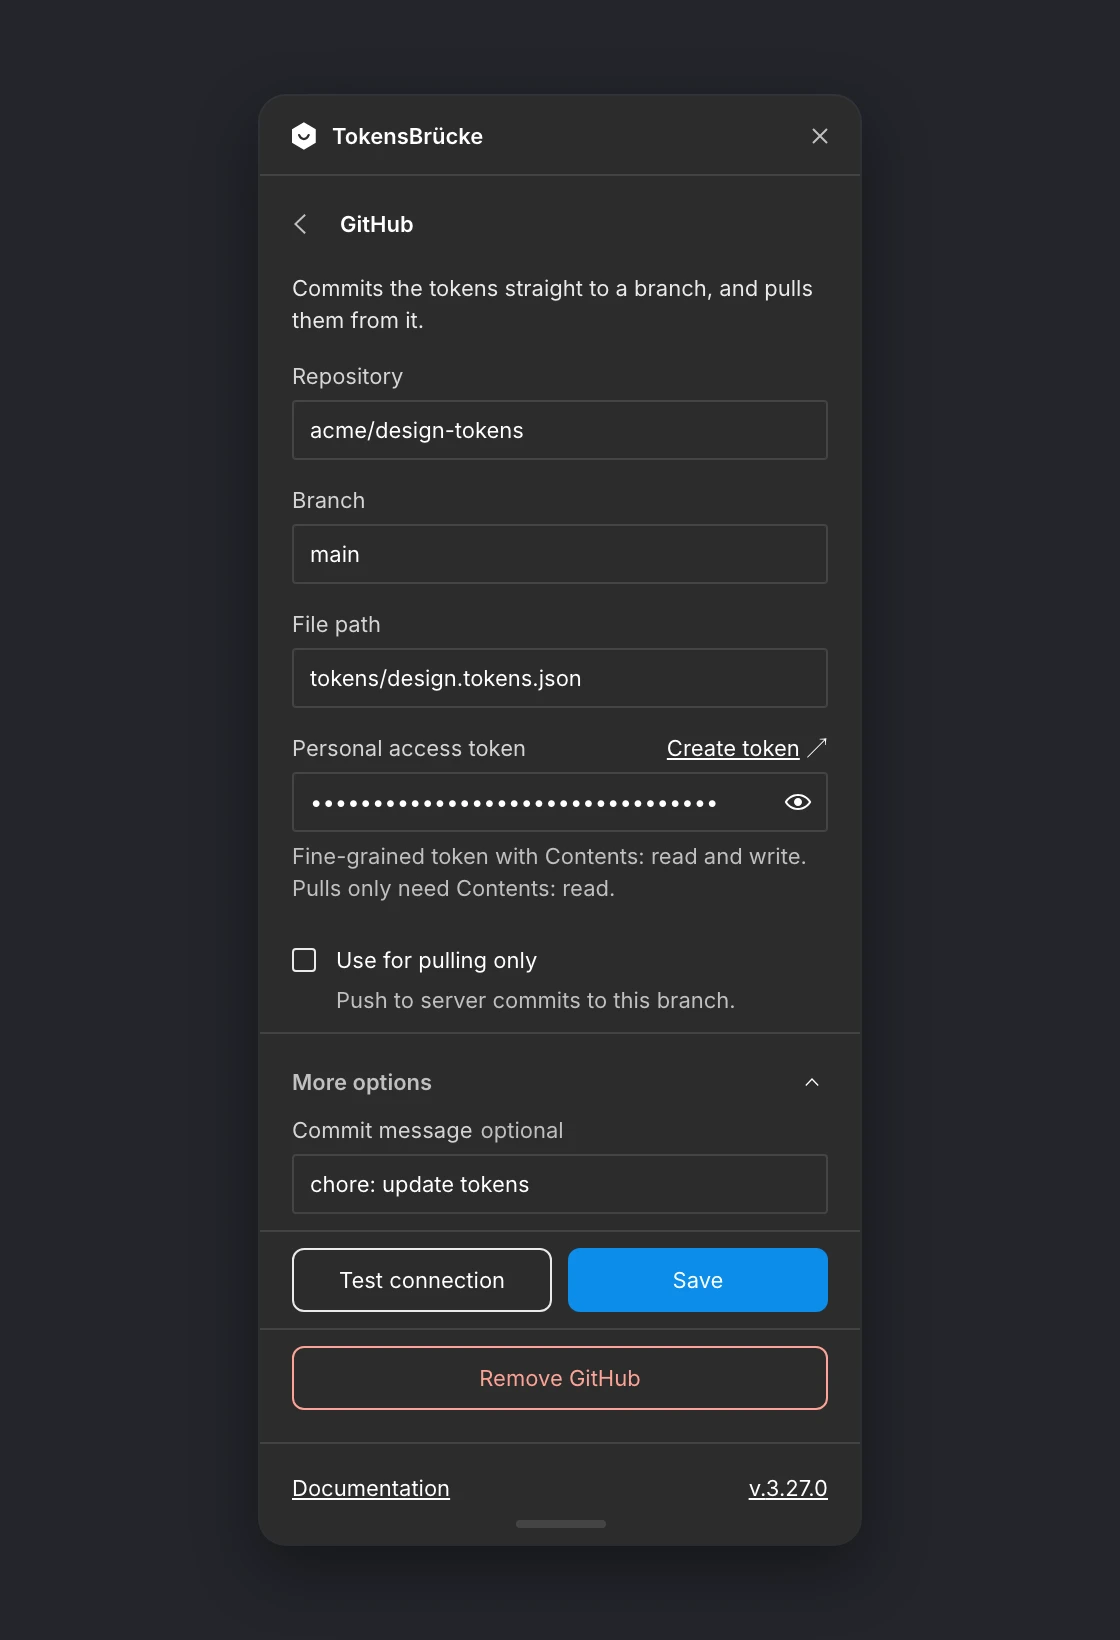
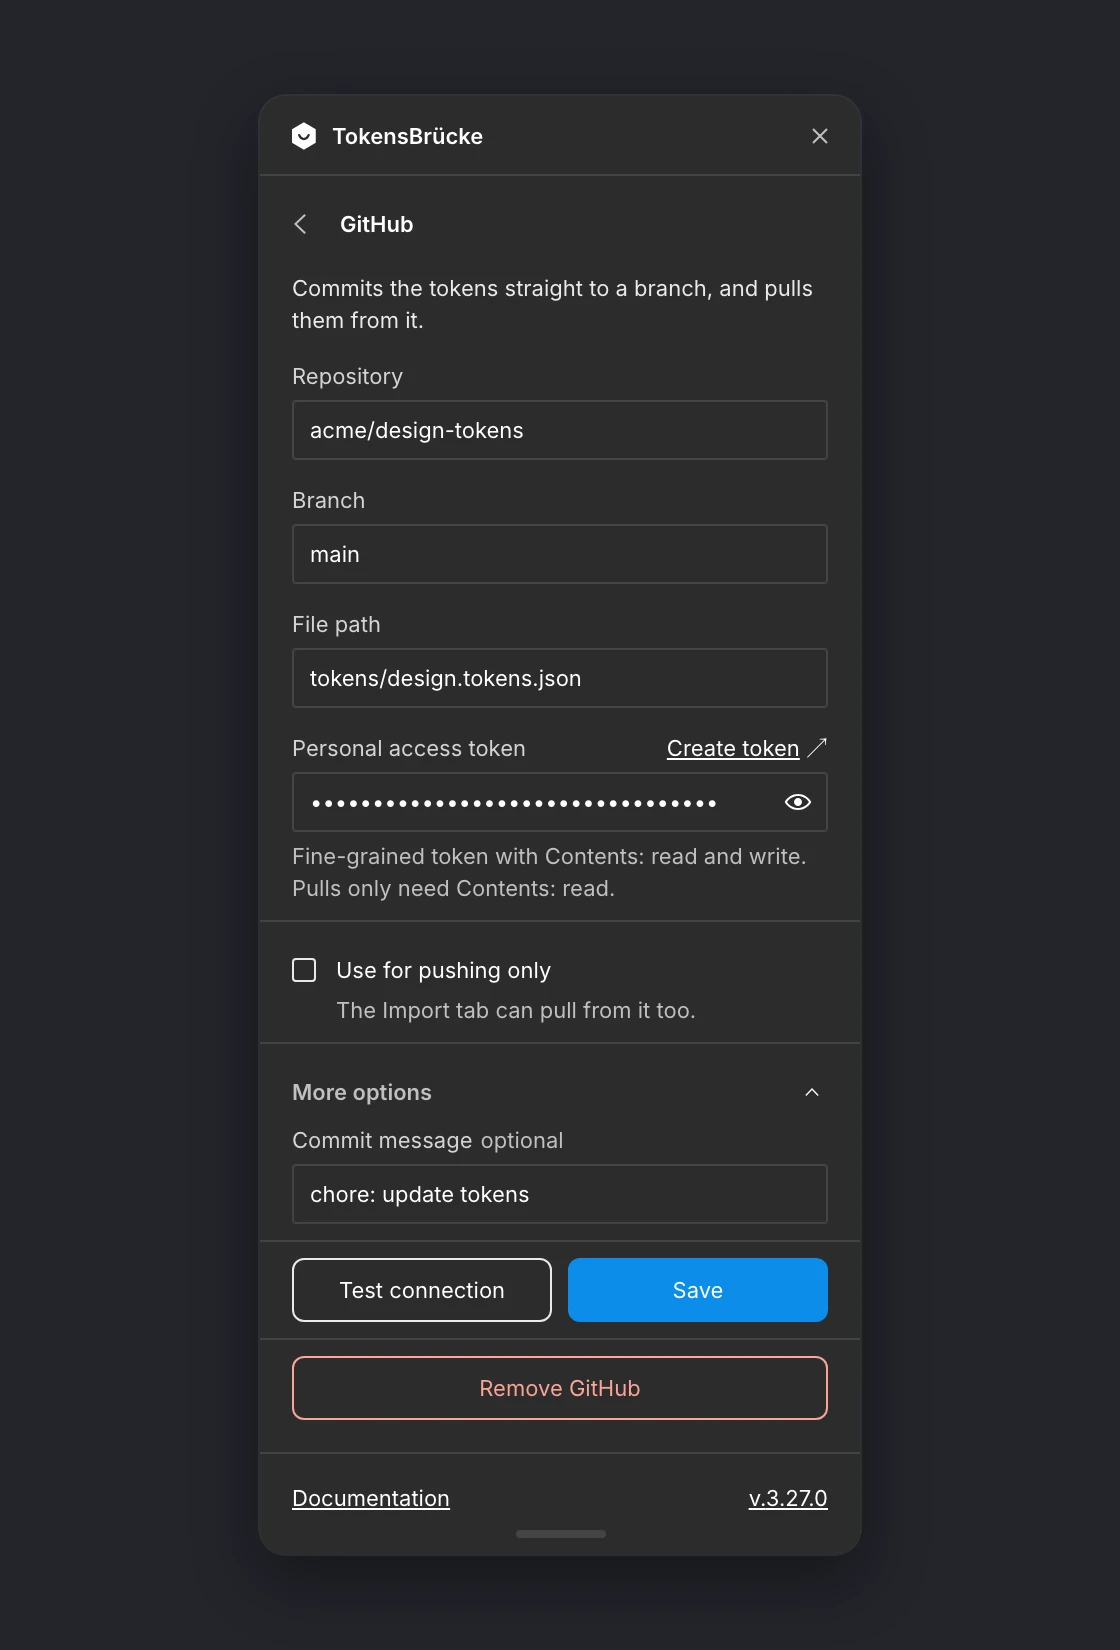
feat(plugin): use a server for pushing only
A server form opened from the Export tab has "Use for pushing only",
which keeps the server off the Import tab, e.g. an endpoint that can't
answer a GET. Opened from the Import tab, the form keeps "Use for
pulling only". The checkbox sits in its own section under a divider.

diff --git a/src/app/views/ServerSettingsView/index.tsx b/src/app/views/ServerSettingsView/index.tsx
@@ -75,18 +75,23 @@ export const ServerSettingsView = (props: ViewProps) => {
   >;
   const isConfigured = !!stored.isEnabled;
 
-  // Any server but a PR or MR server can be pull-only: those exist to push
+  // Any server but a PR or MR server can be pull-only: those exist to push.
+  // Any server can be push-only
   const canBePullOnly =
     server !== 'githubPullRequest' && server !== 'gitlabMergeRequest';
-  const isStoredPush = !stored.pullOnly;
-  // A new server added on the Import tab only pulls. Picking a pull-only
-  // server in the Export tab's + menu turns pushing on, saved with Save
-  const [isPullOnlyChecked, setIsPullOnlyChecked] = useState(() => {
-    if (!canBePullOnly) return false;
-    if (!isConfigured) return openedFrom === 'import';
-    return !isStoredPush && openedFrom !== 'export';
+  const isFromImport = openedFrom === 'import';
+  // The form shows the restriction of the tab it was opened from: "Use for
+  // pulling only" on Import, "Use for pushing only" on Export. A new server
+  // added on the Import tab only pulls. Picking a server in the other tab's
+  // + menu lifts its restriction, saved with Save
+  const hasOnlyCheckbox = !isFromImport || canBePullOnly;
+  const [isOnlyChecked, setIsOnlyChecked] = useState(() => {
+    if (!hasOnlyCheckbox) return false;
+    if (!isConfigured) return isFromImport;
+    return isFromImport ? !!stored.pullOnly : !!stored.pushOnly;
   });
-  const isPullOnly = canBePullOnly && isPullOnlyChecked;
+  const isPullOnly = isFromImport && canBePullOnly && isOnlyChecked;
+  const isPushOnly = !isFromImport && isOnlyChecked;
   // Custom URL has no secret field, so Remove doesn't speak of one
   const secretField = provider.fields.find((field) => field.kind === 'secret');
 
@@ -164,7 +169,8 @@ export const ServerSettingsView = (props: ViewProps) => {
         (values[field.id] || '').trim() !==
         (initialValues[field.id] || '').trim()
     ) ||
-    (canBePullOnly && isConfigured && isPullOnly === isStoredPush);
+    (isConfigured &&
+      (isPullOnly !== !!stored.pullOnly || isPushOnly !== !!stored.pushOnly));
 
   useEffect(() => {
     if (!focusFieldId) return;
@@ -226,7 +232,8 @@ export const ServerSettingsView = (props: ViewProps) => {
       ...stored,
       ...provider.toStorage(values),
       isEnabled: true,
-      ...(canBePullOnly ? { pullOnly: isPullOnly } : {}),
+      pullOnly: isPullOnly,
+      pushOnly: isPushOnly,
     };
 
     setJSONsettingsConfig((prevState) => ({
@@ -240,7 +247,12 @@ export const ServerSettingsView = (props: ViewProps) => {
     showToast?.({
       title: `${provider.title} saved`,
       // Every server is also where Pull on the Import tab reads from
-      message: isPullOnly
+      message: isPushOnly
+        ? `Push to server sends the tokens to ${getServerSummary(
+            server,
+            nextStored
+          )}. The Import tab doesn’t list it.`
+        : isPullOnly
         ? `Pull on the Import tab reads the tokens from ${getServerPullSource(
             server,
             nextStored as ServerSettingsI[ServerType]
@@ -268,7 +280,7 @@ export const ServerSettingsView = (props: ViewProps) => {
     const result = await testConnection(server, {
       ...stored,
       ...provider.toStorage(values),
-      ...(canBePullOnly ? { pullOnly: isPullOnly } : {}),
+      pullOnly: isPullOnly,
     } as unknown as ServerSettingsI[ServerType]);
 
     setConnection({ state: 'done', result });
@@ -418,26 +430,40 @@ export const ServerSettingsView = (props: ViewProps) => {
 
       <Stack hasLeftRightPadding hasTopBottomPadding gap="var(--space-small)">
         <Text className={styles.description}>
-          {isPullOnly && provider.pullDescription
-            ? provider.pullDescription
-            : provider.description}
+          {(isPullOnly && provider.pullDescription) ||
+            (isPushOnly && provider.pushDescription) ||
+            provider.description}
         </Text>
         {mainFields.map(renderField)}
-        {canBePullOnly && (
+      </Stack>
+
+      {hasOnlyCheckbox && (
+        // Its own section: it says what the server is used for, not where
+        <Stack
+          hasLeftRightPadding
+          hasTopBottomPadding
+          className={styles.onlySection}
+        >
           <div className={styles.pullOnly}>
             <Checkbox
-              id="server-pull-only"
+              id="server-only"
               className={styles.pullOnlyCheckbox}
-              checked={isPullOnlyChecked}
+              checked={isOnlyChecked}
               onChang={(checked: boolean) => {
-                setIsPullOnlyChecked(checked);
+                setIsOnlyChecked(checked);
                 setConnection({ state: 'idle' });
               }}
             >
-              <Text>Use for pulling only</Text>
+              <Text>
+                {isFromImport ? 'Use for pulling only' : 'Use for pushing only'}
+              </Text>
             </Checkbox>
             <Text className={styles.pullOnlyHint}>
-              {isPullOnly
+              {!isFromImport
+                ? isPushOnly
+                  ? 'The Import tab doesn’t list it.'
+                  : 'The Import tab can pull from it too.'
+                : isPullOnly
                 ? 'Push to server skips it.'
                 : server === 'jsonbin'
                 ? 'Push to server updates this bin.'
@@ -446,8 +472,8 @@ export const ServerSettingsView = (props: ViewProps) => {
                 : 'Push to server commits to this branch.'}
             </Text>
           </div>
-        )}
-      </Stack>
+        </Stack>
+      )}
 
       {advancedFields.length > 0 && (
         // A panel like "Advanced settings" in the main view

diff --git a/src/app/views/ServerSettingsView/providers.tsx b/src/app/views/ServerSettingsView/providers.tsx
@@ -52,6 +52,8 @@ export interface ProviderI {
   description: string;
   /** For a server added on the Import tab, which Push to server skips */
   pullDescription?: string;
+  /** For a server the Import tab doesn't list */
+  pushDescription?: string;
   fields: FieldConfigI[];
   canTestConnection: boolean;
   toForm: (stored: StoredT) => FormValuesT;
@@ -241,6 +243,7 @@ export const providers: Record<ServerType, ProviderI> = {
     description:
       'Commits the tokens straight to a branch, and pulls them from it.',
     pullDescription: 'Pulls the tokens from a branch.',
+    pushDescription: 'Commits the tokens straight to a branch.',
     canTestConnection: true,
     fields: [
       githubRepositoryField,
@@ -277,6 +280,8 @@ export const providers: Record<ServerType, ProviderI> = {
     title: 'GitHub pull request',
     description:
       'Commits the tokens to a separate branch and opens or updates a pull request. Pulls read the base branch, where merged changes land.',
+    pushDescription:
+      'Commits the tokens to a separate branch and opens or updates a pull request.',
     canTestConnection: true,
     fields: [
       githubRepositoryField,
@@ -345,6 +350,8 @@ export const providers: Record<ServerType, ProviderI> = {
     description:
       'Commits the tokens straight to a branch of a GitLab project, and pulls them from it.',
     pullDescription: 'Pulls the tokens from a branch of a GitLab project.',
+    pushDescription:
+      'Commits the tokens straight to a branch of a GitLab project.',
     canTestConnection: true,
     fields: [
       gitlabProjectField,
@@ -379,6 +386,8 @@ export const providers: Record<ServerType, ProviderI> = {
     title: 'GitLab merge request',
     description:
       'Commits the tokens to a separate branch and opens or updates a merge request. Pulls read the target branch, where merged changes land.',
+    pushDescription:
+      'Commits the tokens to a separate branch and opens or updates a merge request.',
     canTestConnection: true,
     fields: [
       gitlabProjectField,
@@ -445,6 +454,7 @@ export const providers: Record<ServerType, ProviderI> = {
     description:
       'Saves the tokens as a bin on jsonbin.io, and pulls them from it.',
     pullDescription: 'Pulls the tokens from a bin on jsonbin.io.',
+    pushDescription: 'Saves the tokens as a bin on jsonbin.io.',
     canTestConnection: false,
     fields: [
       {
@@ -498,6 +508,7 @@ export const providers: Record<ServerType, ProviderI> = {
       'Sends the tokens as JSON to your own endpoint. A pull reads them from it with GET.',
     pullDescription:
       'Reads the tokens as JSON from your own endpoint with GET.',
+    pushDescription: 'Sends the tokens as JSON to your own endpoint.',
     canTestConnection: false,
     fields: [
       {

diff --git a/global.d.ts b/global.d.ts
@@ -26,6 +26,8 @@ interface IncludedStylesI {
 
 interface JsonbinCredentialsI {
   isEnabled: boolean;
+  /** Added on the Export tab with "Use for pushing only": the Import tab doesn't list it */
+  pushOnly?: boolean;
   id?: string;
   name: string;
   secretKey: string;
@@ -35,6 +37,8 @@ interface JsonbinCredentialsI {
 
 interface GithubCredentialsI {
   isEnabled: boolean;
+  /** Added on the Export tab with "Use for pushing only": the Import tab doesn't list it */
+  pushOnly?: boolean;
   /** Added on the Import tab: pulled from, but Push to server skips it */
   pullOnly?: boolean;
   token: string;
@@ -47,6 +51,8 @@ interface GithubCredentialsI {
 
 interface GithubPullRequestCredentialsI {
   isEnabled: boolean;
+  /** Added on the Export tab with "Use for pushing only": the Import tab doesn't list it */
+  pushOnly?: boolean;
   token: string;
   repo: string;
   baseBranch: string;
@@ -60,6 +66,8 @@ interface GithubPullRequestCredentialsI {
 
 interface GitlabCredentialsI {
   isEnabled: boolean;
+  /** Added on the Export tab with "Use for pushing only": the Import tab doesn't list it */
+  pushOnly?: boolean;
   /** Added on the Import tab: pulled from, but Push to server skips it */
   pullOnly?: boolean;
   owner: string;
@@ -73,6 +81,8 @@ interface GitlabCredentialsI {
 
 interface GitlabMergeRequestCredentialsI {
   isEnabled: boolean;
+  /** Added on the Export tab with "Use for pushing only": the Import tab doesn't list it */
+  pushOnly?: boolean;
   owner: string;
   host: string;
   repo: string;
@@ -87,6 +97,8 @@ interface GitlabMergeRequestCredentialsI {
 
 interface CustomURLCredentialsI {
   isEnabled: boolean;
+  /** Added on the Export tab with "Use for pushing only": the Import tab doesn't list it */
+  pushOnly?: boolean;
   url: string;
   method: 'POST' | 'PUT';
   headers: string;

diff --git a/src/app/views/SettingsView/index.tsx b/src/app/views/SettingsView/index.tsx
@@ -370,13 +370,20 @@ export const SettingsView = (props: ViewProps) => {
 
   const pushServers = enabledServers.filter((server) => !isPullOnly(server.id));
 
+  // Added on the Export tab with "Use for pushing only"
+  const isPushOnly = (serverId: string) =>
+    !!(JSONsettingsConfig.servers[serverId] as { pushOnly?: boolean })
+      ?.pushOnly;
+
   // Every server can be pulled from. None where the import can't run (Dev
   // Mode)
   const pullServers = onImportTokenDocuments
-    ? enabledServers.map((server) => ({
-        ...server,
-        id: server.id as ServerType,
-      }))
+    ? enabledServers
+        .filter((server) => !isPushOnly(server.id))
+        .map((server) => ({
+          ...server,
+          id: server.id as ServerType,
+        }))
     : [];
 
   const serverLabel = (server: ServerType) =>
@@ -677,8 +684,7 @@ export const SettingsView = (props: ViewProps) => {
       gitServerIds.includes(server.id as ServerType)
     );
   const isPullCollectionRowShown =
-    hasCollectionFiles &&
-    enabledServers.some((server) => isGitServer(server.id));
+    hasCollectionFiles && pullServers.some((server) => isGitServer(server.id));
   const pushedCollections = variableCollections.filter(
     (collection) =>
       !(JSONsettingsConfig.excludedCollections ?? []).includes(collection)
@@ -709,7 +715,8 @@ export const SettingsView = (props: ViewProps) => {
       (server) =>
         server.id !== 'githubPullRequest' &&
         server.id !== 'gitlabMergeRequest' &&
-        !JSONsettingsConfig.servers[server.id]?.isEnabled
+        (!JSONsettingsConfig.servers[server.id]?.isEnabled ||
+          isPushOnly(server.id))
     )
     .map(({ caption: _caption, ...server }) => server);
 

diff --git a/src/app/views/ServerSettingsView/styles.module.scss b/src/app/views/ServerSettingsView/styles.module.scss
@@ -36,6 +36,11 @@
 }
 
 // The kit's checkbox has its own inset; line its box up with the fields
+// A full-width line like the one above More options
+.onlySection {
+  border-top: 1px solid var(--figma-color-border);
+}
+
 .pullOnly {
   display: flex;
   flex-direction: column;
